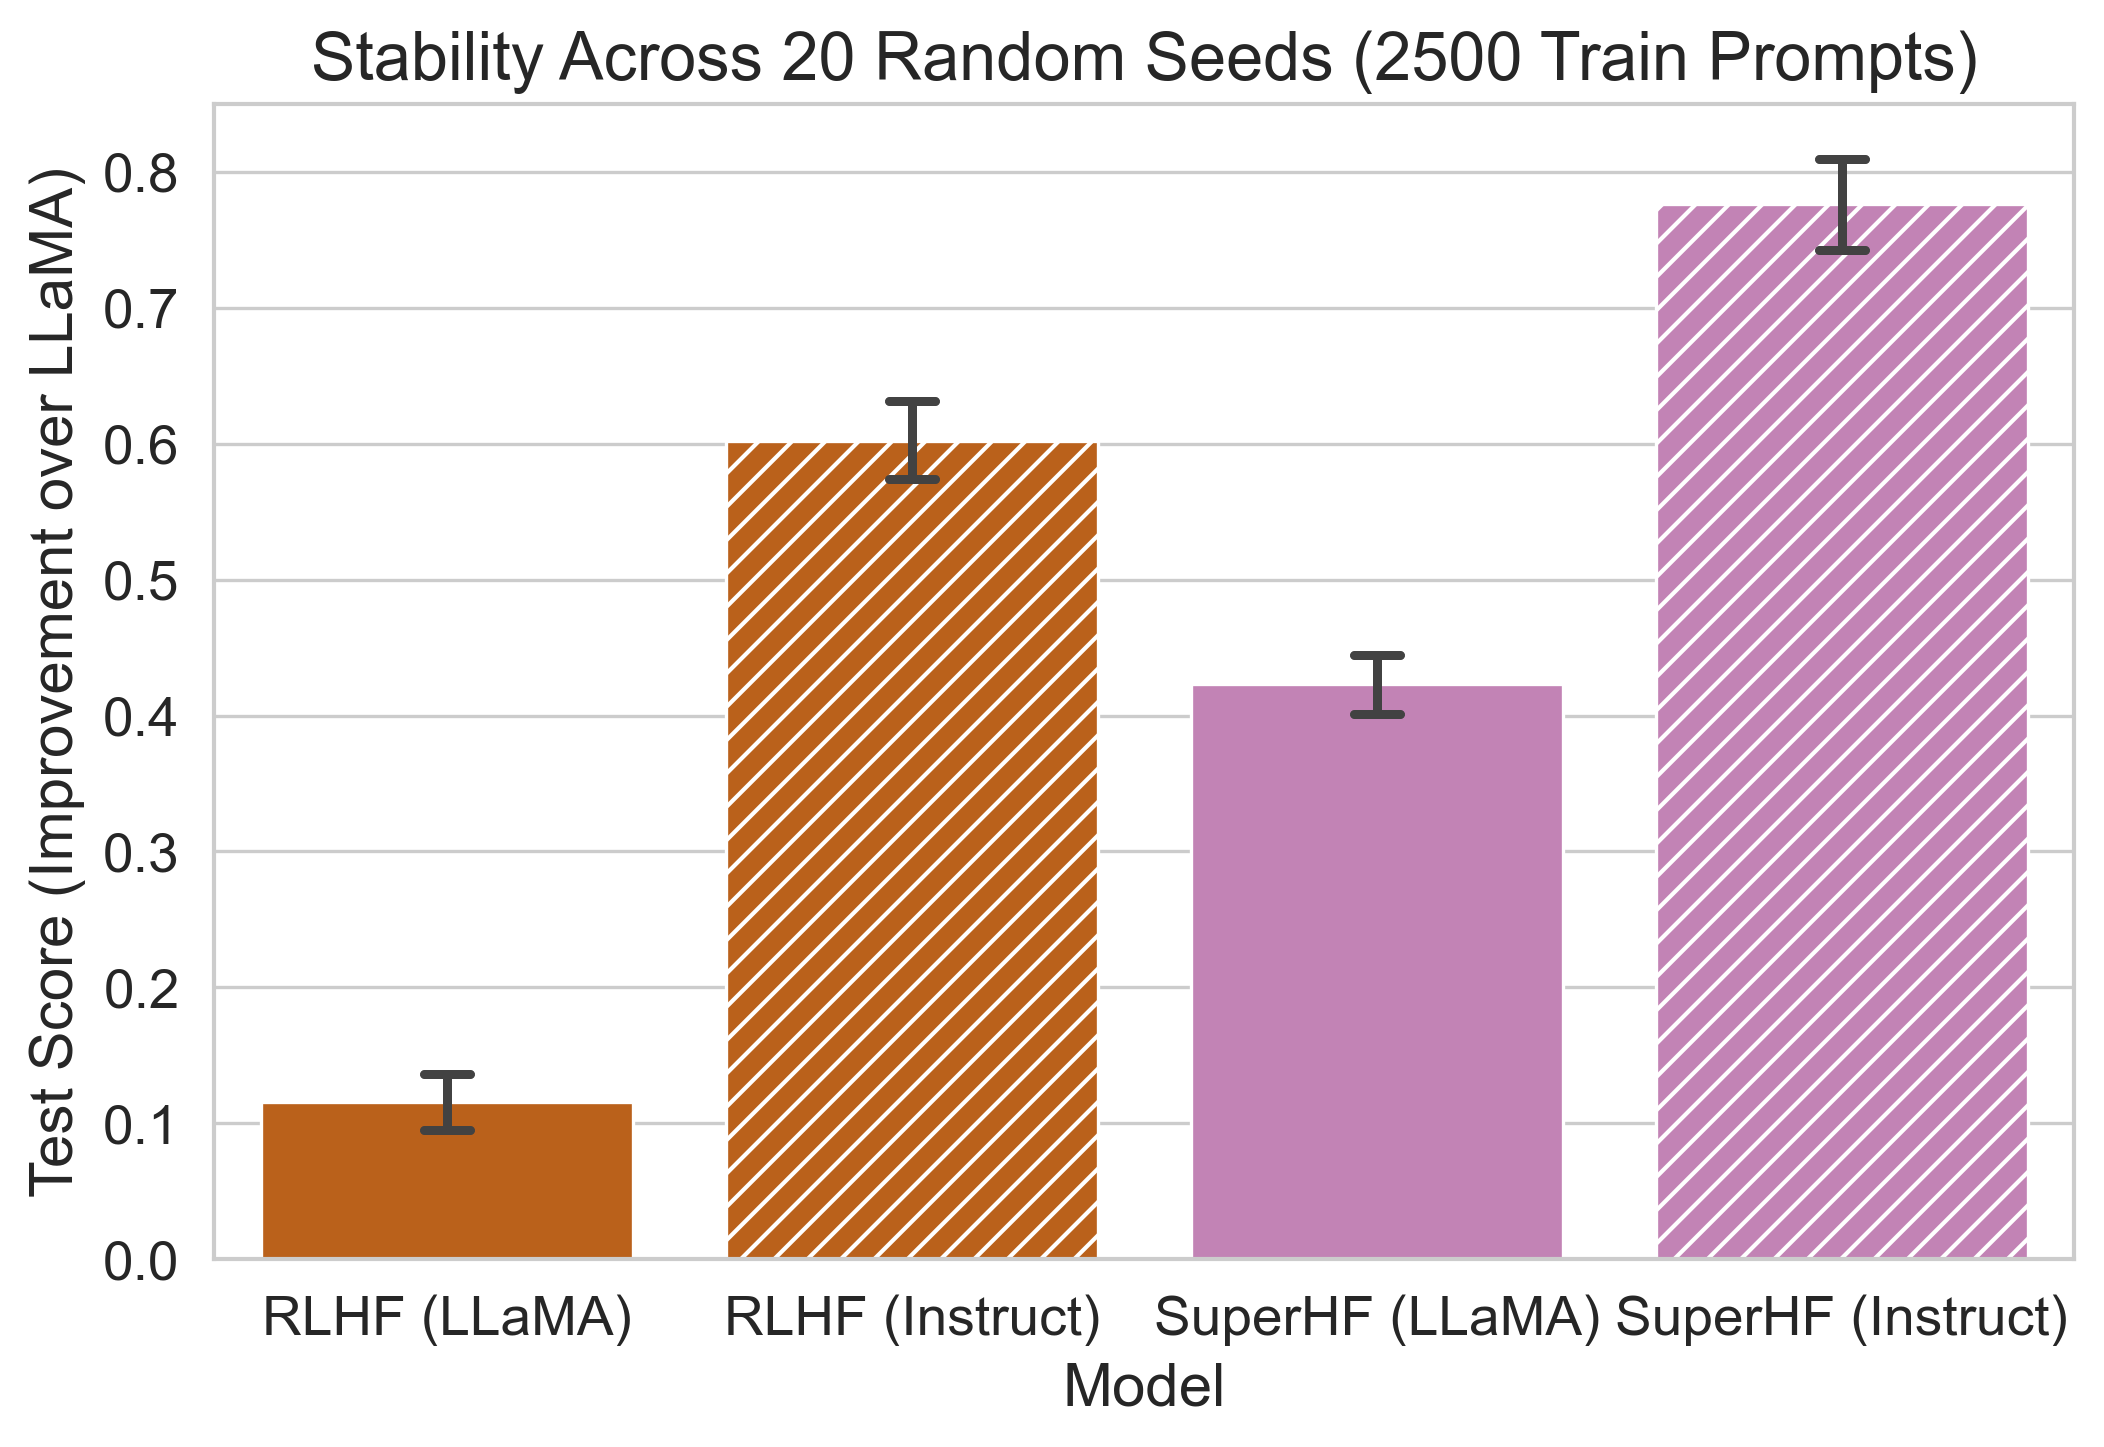
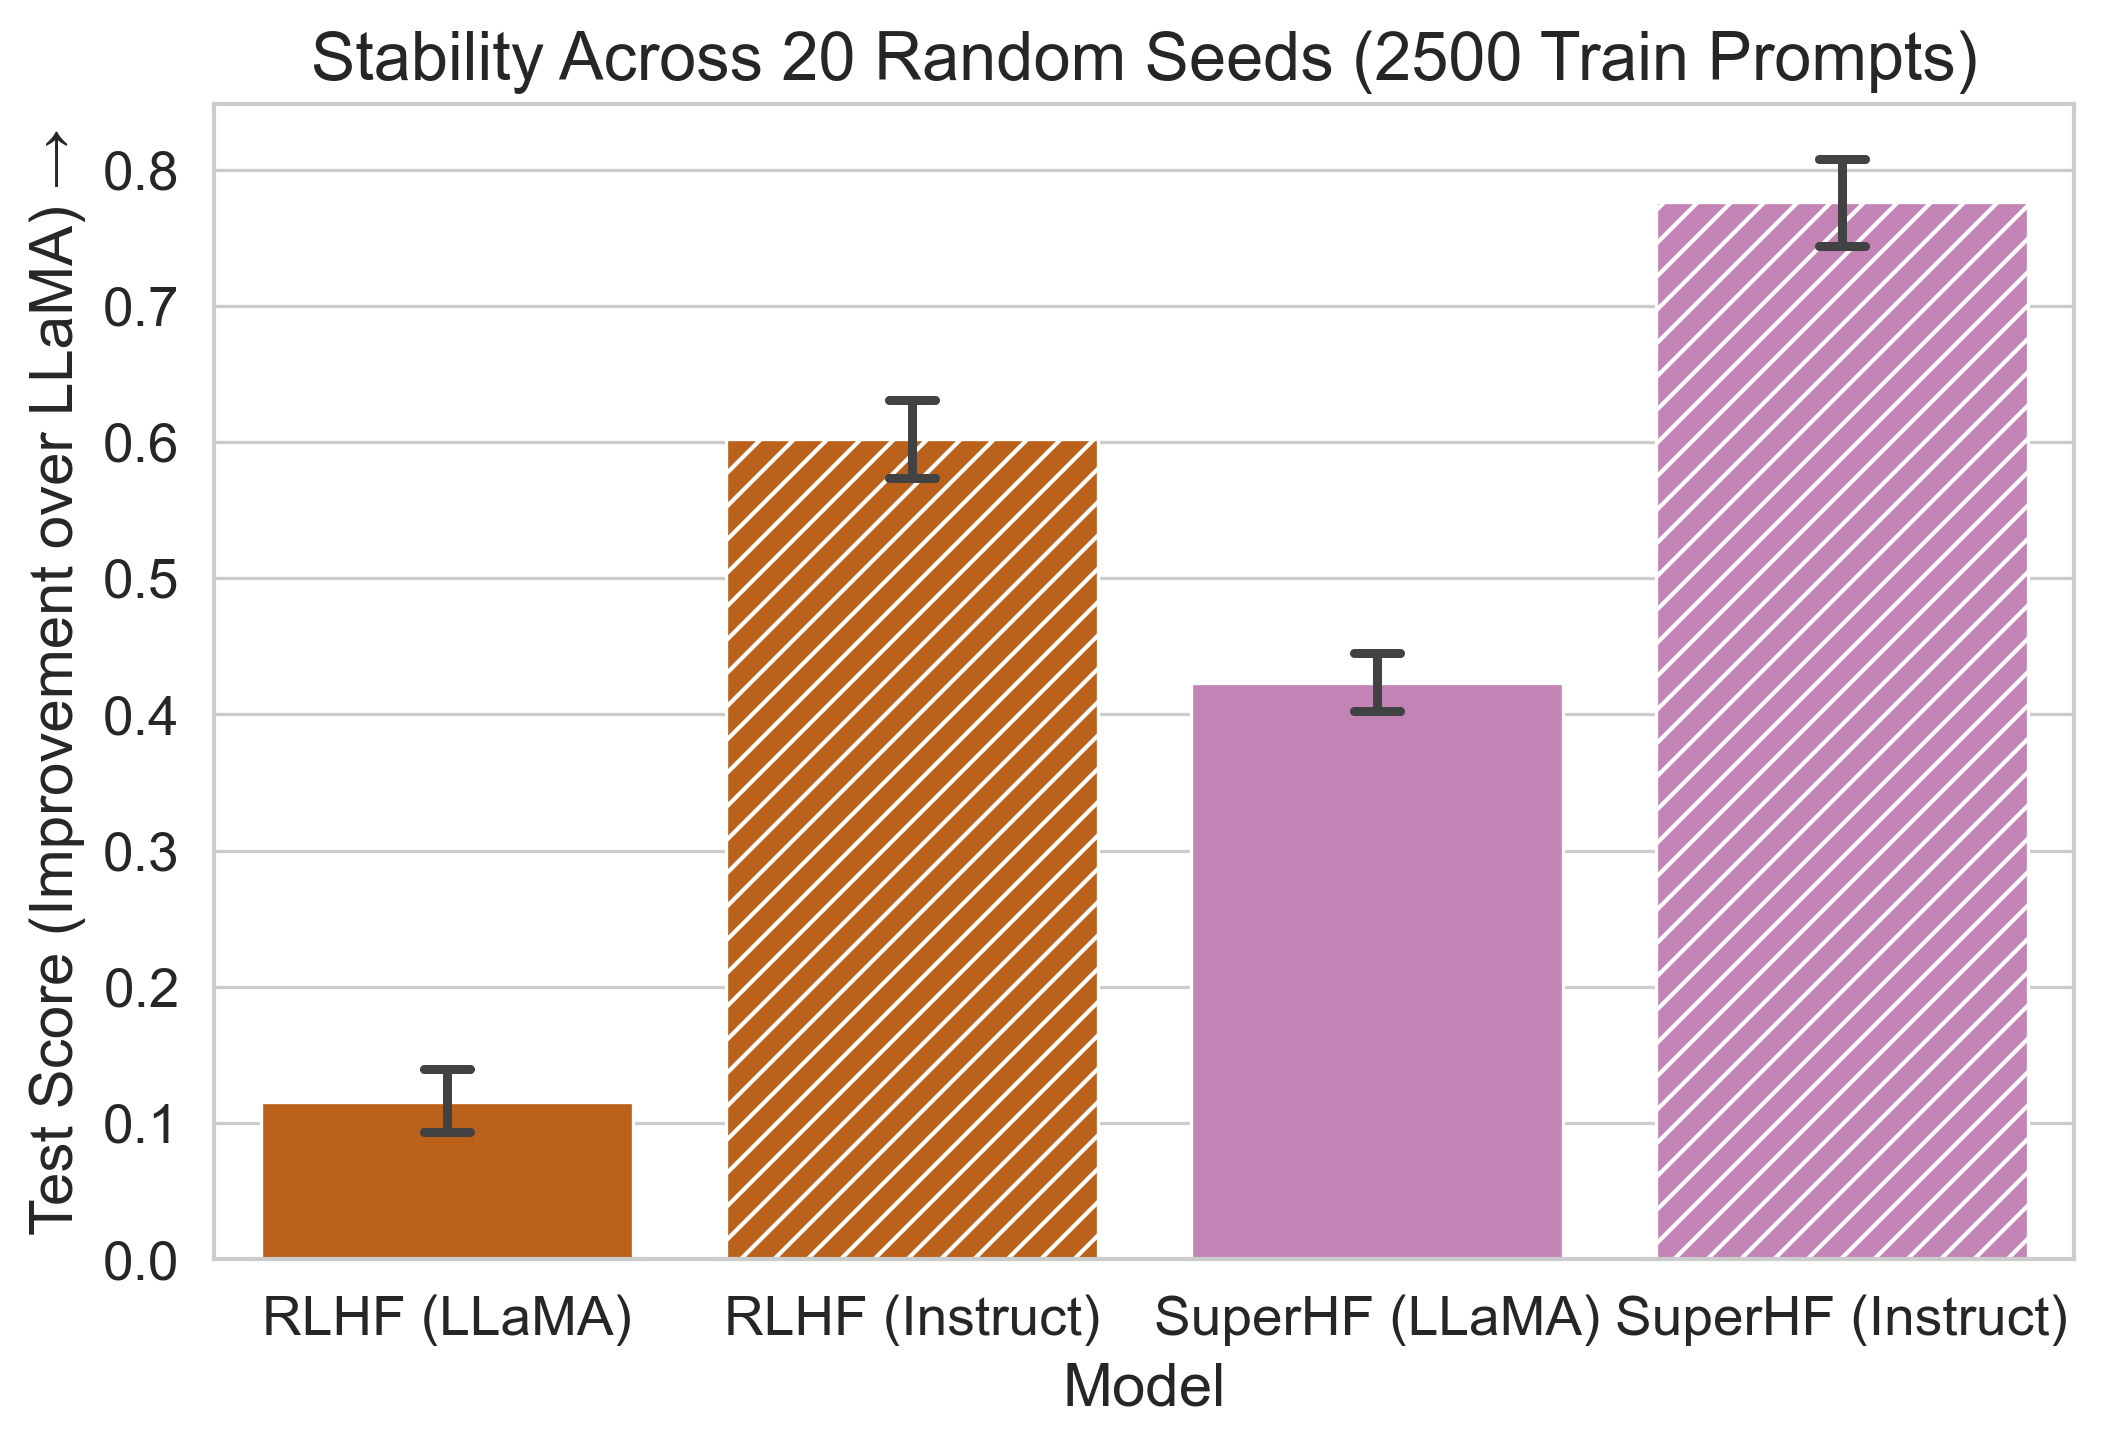
Add arrow

Changed region(s): [[0.0, 0.0933, 0.0618, 0.8397], [0.865, 0.1555, 0.8959, 0.1866], [0.1854, 0.7153, 0.2163, 0.7464]]

diff --git a/charts/random_seed_stability.py b/charts/random_seed_stability.py
@@ -69,7 +69,7 @@ def main() -> None:
 
     # Set labels and title
     plt.xlabel("Model")
-    plt.ylabel("Test Score (Improvement over LLaMA)")
+    plt.ylabel("Test Score (Improvement over LLaMA) →")
     plt.title("Stability Across 20 Random Seeds (2500 Train Prompts)")
 
     # Save the plot
